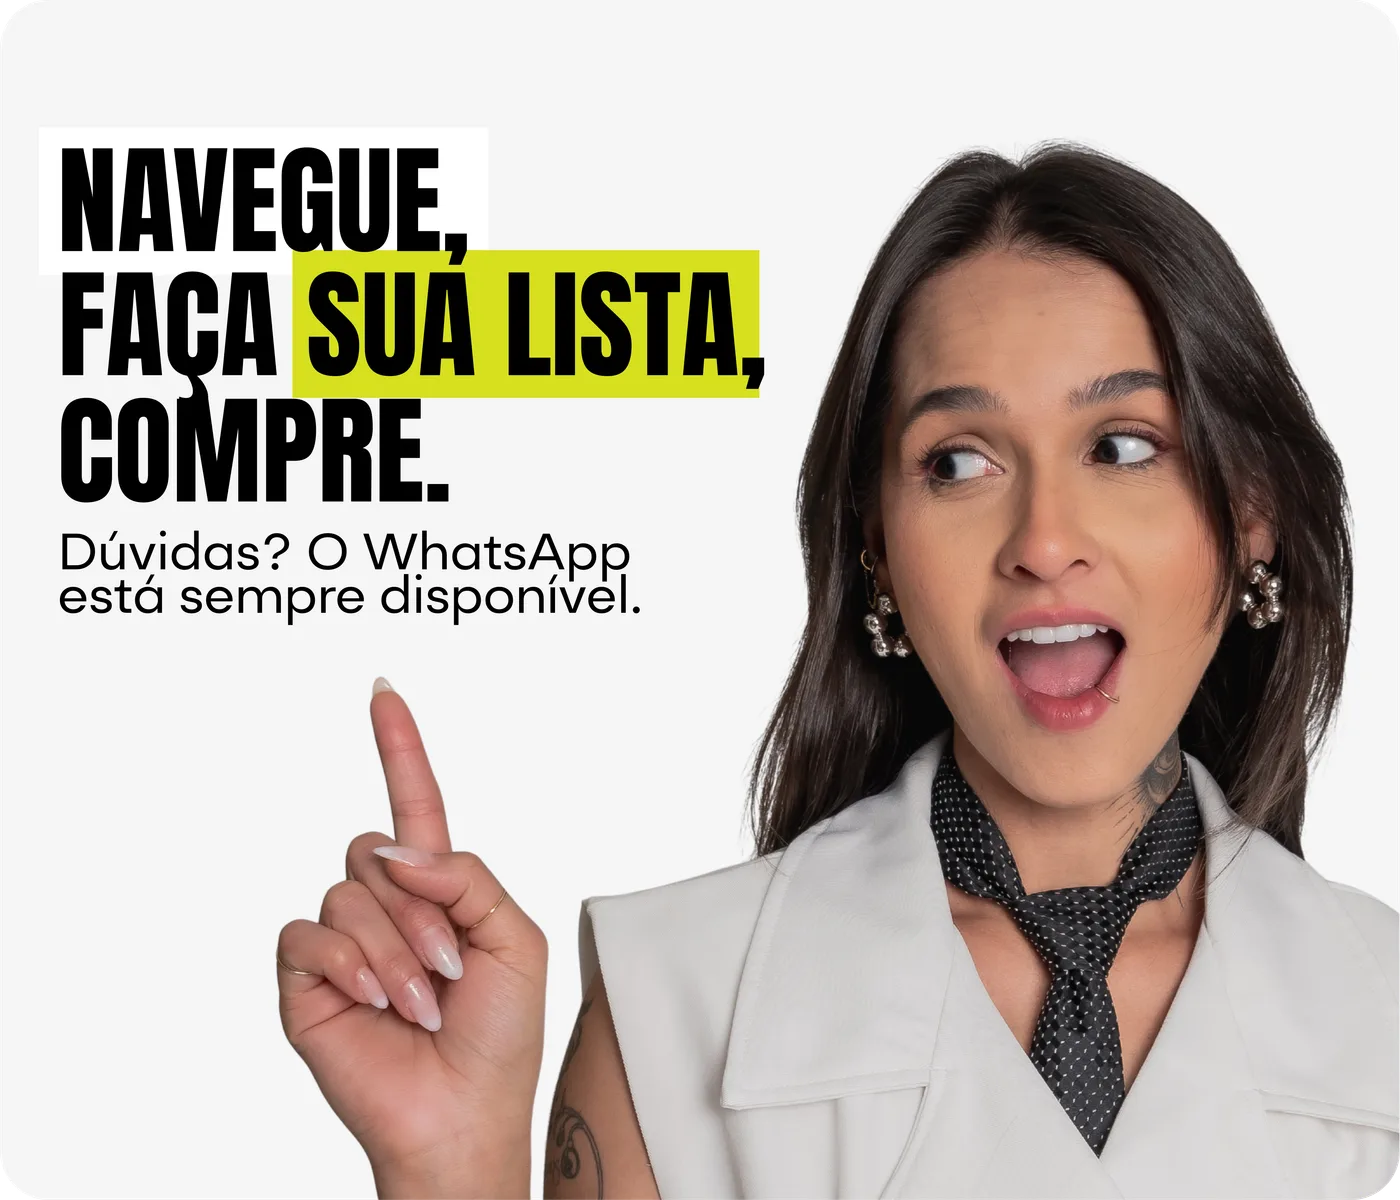
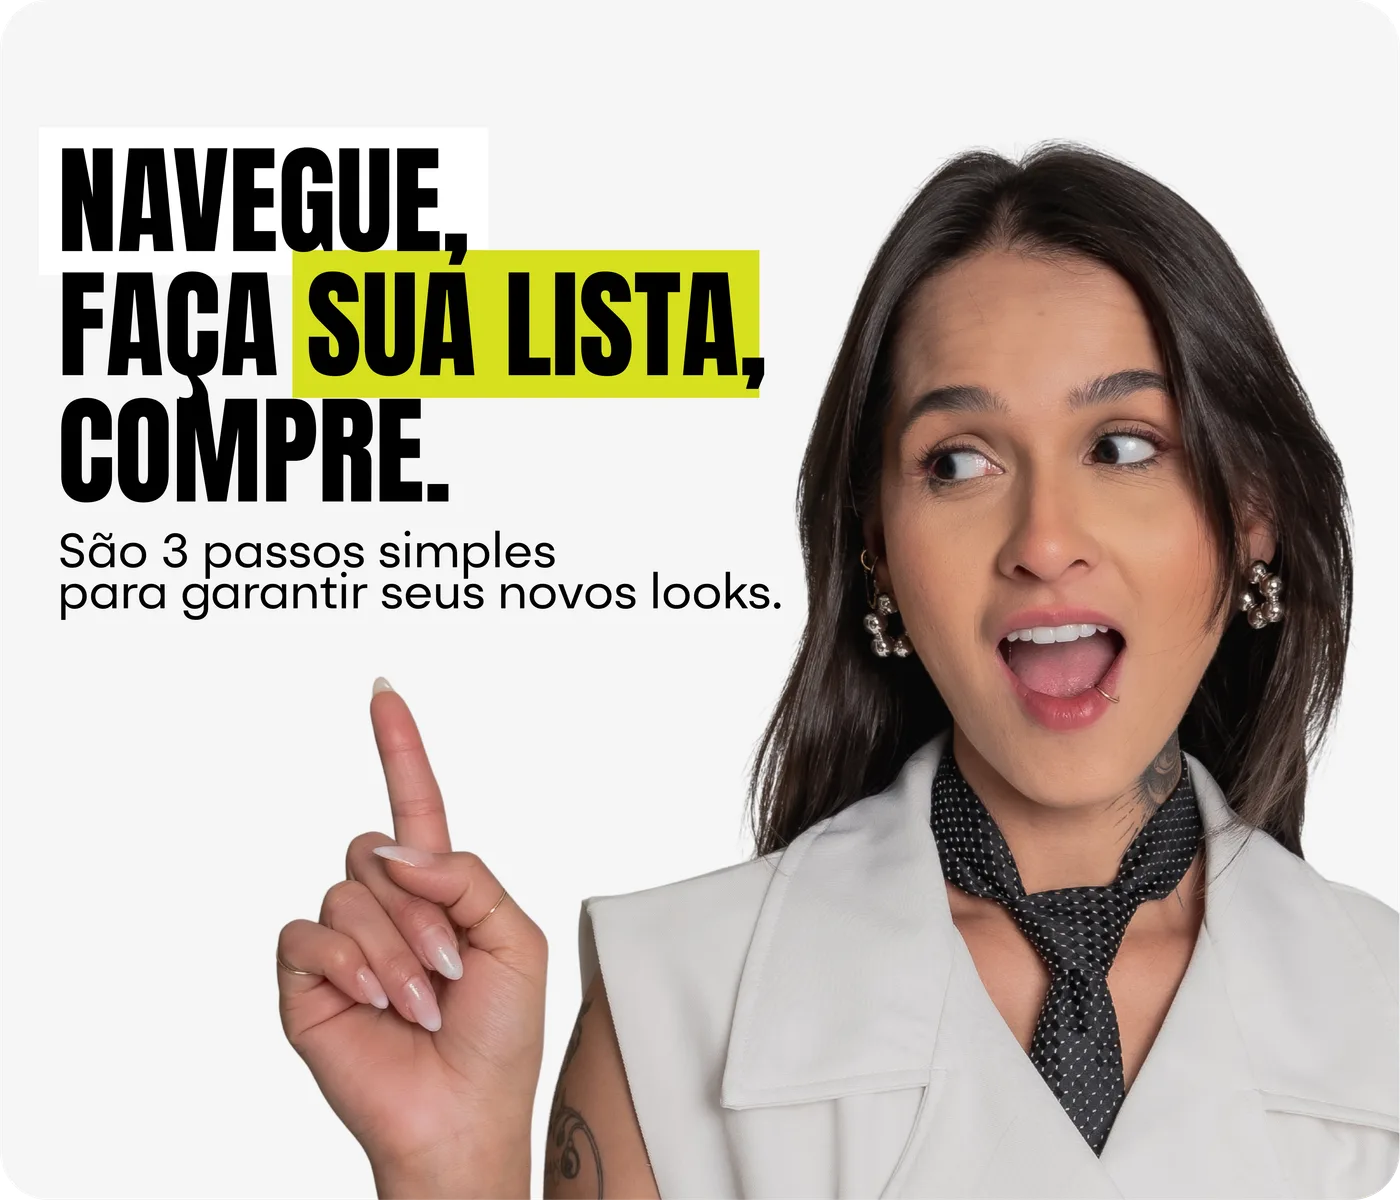
Corrige texto da imagem de destaque e arredonda os cards de categoria
A imagem trocada tinha uma informação errada no subtítulo. Nos cards de
categoria, rounded-2xl não tinha efeito nenhum porque o tailwind.config.ts
zera toda a escala de border-radius por diretriz de marca (cantos sempre
quadrados) — troquei por um valor arbitrário (rounded-[1rem]) só nesses
dois pontos, a pedido explícito do usuário, sem mexer na diretriz global.

Changed region(s): [[0.0307, 0.4317, 0.5529, 0.5242]]

diff --git a/app/(loja)/page.tsx b/app/(loja)/page.tsx
@@ -14,10 +14,10 @@ export default async function CatalogoPage() {
     <div className="space-y-4">
       <img
         src="/home/bia-destaque.webp"
-        alt="Navegue, faça sua lista, compre. Dúvidas? O WhatsApp está sempre disponível."
+        alt="Navegue, faça sua lista, compre. São 3 passos simples para garantir seus novos looks."
         width={1400}
         height={1200}
-        className="h-auto w-full rounded-2xl"
+        className="h-auto w-full rounded-[1rem]"
       />
 
       {!categorias || categorias.length === 0 ? (
@@ -30,7 +30,7 @@ export default async function CatalogoPage() {
             <Link
               key={categoria.id}
               href={`/categoria/${categoria.id}`}
-              className="flex aspect-square items-center justify-center rounded-2xl border border-neutral-300 bg-neutral-50 p-4 text-center text-base font-semibold hover:bg-neutral-100 sm:text-xl"
+              className="flex aspect-square items-center justify-center rounded-[1rem] border border-neutral-300 bg-neutral-50 p-4 text-center text-base font-semibold hover:bg-neutral-100 sm:text-xl"
             >
               {categoria.nome}
             </Link>
